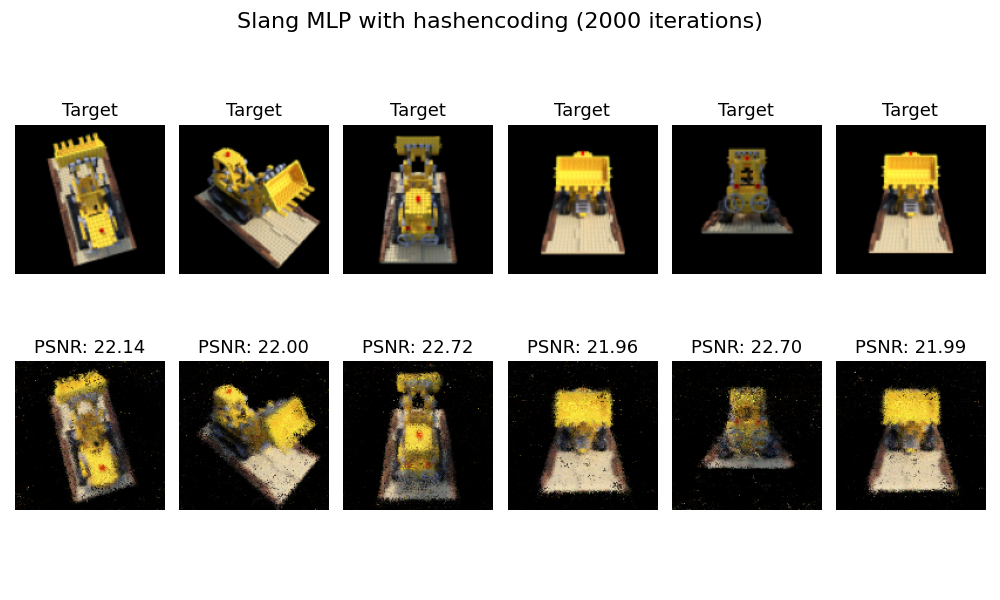
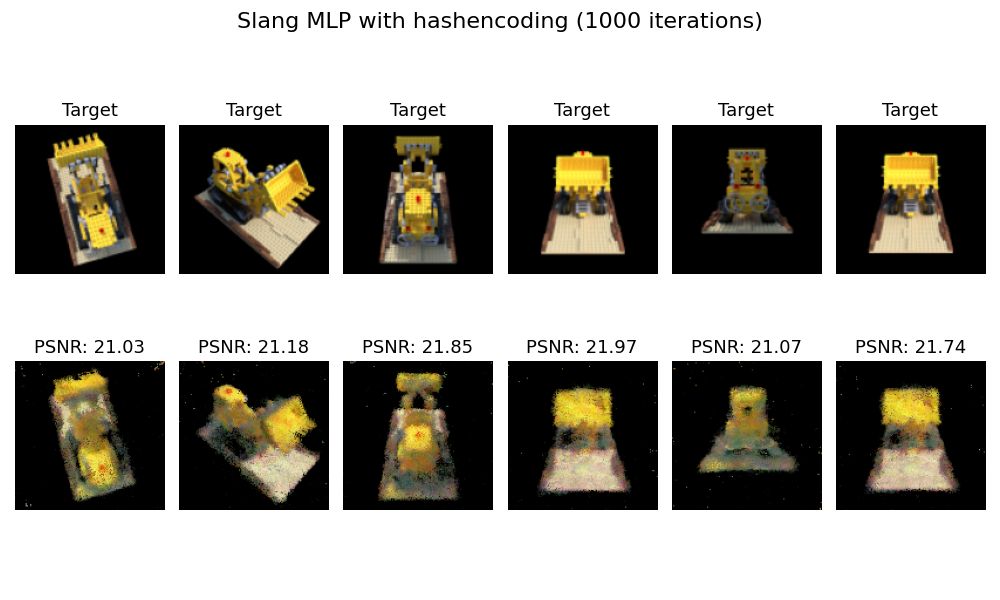
multi-res

diff --git a/trainers/slanghash_trainer.py b/trainers/slanghash_trainer.py
@@ -3,7 +3,7 @@ import os
 import matplotlib.pyplot as plt
 import time
 from utils.data_loader import DataLoader
-from utils.save_results import save_images
+from utils.save_results import save_images, save_video
 import numpy as np
 from utils.feature_field import FeatureField, normalize_coordinates
 torch.cuda.empty_cache()
@@ -22,7 +22,7 @@ class SlangHashTrainer:
         self.bounding_box = self.dataset.get_bbx()
         self.model = RenderImage()
         self.loss_fn = torch.nn.MSELoss()
-        self.feature_field = FeatureField(features_per_level = 32,res=self.height).cuda()
+        self.feature_field = FeatureField(features_per_level = 2,res=self.height).cuda()
         self.params = self.init_params()
         
     def init_params(self):
@@ -44,7 +44,8 @@ class SlangHashTrainer:
             img_i = np.random.randint(100)
             x, dists, target_image, viewdirs = self.dataset.get_data(img_i)
             x = normalize_coordinates(x, self.bounding_box)
-            embedded_x = self.feature_field.encode(x)
+            #embedded_x = self.feature_field.encode(x)
+            embedded_x = self.feature_field(x)
             
             encoded_viewdirs = viewdirs  
             y_pred = self.model.apply(
@@ -70,7 +71,8 @@ class SlangHashTrainer:
         for img_i in test_images:
             x, dists, target_image, viewdirs = self.dataset.get_data(img_i)
             x = normalize_coordinates(x, self.bounding_box)
-            embedded_x = self.feature_field.encode(x)   
+            #embedded_x = self.feature_field.encode(x)   
+            embedded_x = self.feature_field(x)
 
             encoded_viewdirs = viewdirs  
             
@@ -91,3 +93,18 @@ class SlangHashTrainer:
         if(saveimg):
             save_images(target_images, intermediate_images,'slanghash.png', "Slang MLP with hashencoding" , self.iters, psnrs)
         
+    def render_path(self, saveimg):
+        intermediate_images = []
+        for img_i in range(100):
+            x, dists, viewdirs = self.dataset.get_render_data(img_i)
+            x = normalize_coordinates(x, self.bounding_box)
+            #embedded_x = self.feature_field.encode(x)   
+            embedded_x = self.feature_field(x)
+            encoded_viewdirs = viewdirs  
+            y_pred = self.model.apply(
+                self.width, self.height,
+                embedded_x, encoded_viewdirs, dists, self.embeded,
+                *self.params)
+            intermediate_images.append(y_pred.detach().cpu().numpy())
+            print(f"Iteration {img_i}") 
+        save_video(intermediate_images,'slanghash')

diff --git a/trainers/torchhash_trainer.py b/trainers/torchhash_trainer.py
@@ -19,7 +19,7 @@ class TorchHashTrainer:
         self.model = MLP(self.C, self.C, self.C).to(self.device)
         self.dataset = DataLoader(H= self.height, W = self.width, N_samples = self.N_samples)
         self.bounding_box = self.dataset.get_bbx()
-        self.feature_field = FeatureField(features_per_level = 32, res=self.height).cuda()
+        self.feature_field = FeatureField(features_per_level = 2, res=self.height).cuda()
         self.loss_fn = torch.nn.MSELoss()
         
     def train(self, iters, lr = 5e-3): #5e-3
@@ -33,7 +33,8 @@ class TorchHashTrainer:
             x, dists, target_image, viewdirs = self.dataset.get_data(img_i)
             #hashencoding
             x = normalize_coordinates(x, self.bounding_box)
-            embedded_x = self.feature_field.encode(x)
+            embedded_x = self.feature_field.forward(x)
+            #print(embedded_x.shape)
             
             viewdirs = (pos_embed(viewdirs)[...,:16]).unsqueeze(2).expand(-1, -1, self.N_samples, -1)
             #MLP and volume rendering
@@ -59,7 +60,8 @@ class TorchHashTrainer:
         for img_i in test_images:
             x, dists, target_image, viewdirs = self.dataset.get_data(img_i)
             x = normalize_coordinates(x, self.bounding_box)
-            embedded_x = self.feature_field.encode(x)
+            #embedded_x = self.feature_field.encode(x)
+            embedded_x = self.feature_field.forward(x)
             viewdirs = (pos_embed(viewdirs)[...,:16]).unsqueeze(2).expand(-1, -1, self.N_samples, -1)
             y_pred = self.model(embedded_x, viewdirs)
             y_pred = volume_rendering(y_pred, dists)
@@ -77,10 +79,11 @@ class TorchHashTrainer:
             
     def render_path(self, saveimg):
         intermediate_images = []
-        for img_i in range(40):
+        for img_i in range(100):
             x, dists, viewdirs = self.dataset.get_render_data(img_i)
             x = normalize_coordinates(x, self.bounding_box)
-            embedded_x = self.feature_field.encode(x)
+            #embedded_x = self.feature_field.encode(x)
+            embedded_x = self.feature_field.forward(x)
             viewdirs = (pos_embed(viewdirs)[...,:16]).unsqueeze(2).expand(-1, -1, self.N_samples, -1)
             y_pred = self.model(embedded_x, viewdirs)
             y_pred = volume_rendering(y_pred, dists)

diff --git a/utils/data_loader.py b/utils/data_loader.py
@@ -19,7 +19,7 @@ class DataLoader():
         focal = torch.tensor(data['focal'], dtype=torch.float32, device=self.device).clone().detach()
         self.preprocess_data(images, poses, focal)
         self.bbx = self.get_bbx()
-        render_poses = torch.stack([self.pose_spherical(angle, -30.0, 4.0) for angle in np.linspace(-180,180,40+1)[:-1]], 0).to(self.device)  #torch.from_numpy(self.spherify_poses(poses.cpu().numpy())).to(self.device)
+        render_poses = torch.stack([self.pose_spherical(angle, -30.0, 4.0) for angle in np.linspace(-180,180,100+1)[:-1]], 0).to(self.device)
         self.preprocess_render_data(render_poses, focal)
         
     def preprocess_data(self, images, poses, focal):
@@ -74,10 +74,10 @@ class DataLoader():
         return pts, dists, target_image, viewdirs
 
     def preprocess_render_data(self, render_poses, focal):
-        self.render_distances = torch.zeros((40, self.H, self.W, self.N_samples)).to(self.device)
-        self.render_samplePoints = torch.zeros((40, self.H, self.W, self.N_samples, 3)).to(self.device)
-        self.render_viewrDirections = torch.zeros((40, self.H, self.W, 3)).to(self.device)
-        for i in range(40):
+        self.render_distances = torch.zeros((100, self.H, self.W, self.N_samples)).to(self.device)
+        self.render_samplePoints = torch.zeros((100, self.H, self.W, self.N_samples, 3)).to(self.device)
+        self.render_viewrDirections = torch.zeros((100, self.H, self.W, 3)).to(self.device)
+        for i in range(100):
             #ray direction
             origins, directions = self.get_rays(self.H, self.W, focal, render_poses[i])
             #dists
@@ -103,11 +103,13 @@ class DataLoader():
         [0,1,0,0],
         [0,0,1,t],
         [0,0,0,1]]).float()
+        
         rot_phi = lambda phi : torch.Tensor([
             [1,0,0,0],
             [0,np.cos(phi),-np.sin(phi),0],
             [0,np.sin(phi), np.cos(phi),0],
             [0,0,0,1]]).float()
+        
         rot_theta = lambda th : torch.Tensor([
             [np.cos(th),0,-np.sin(th),0],
             [0,1,0,0],

diff --git a/utils/feature_field.py b/utils/feature_field.py
@@ -19,21 +19,31 @@ def normalize_coordinates(x, bounding_box):
     return x
 
 class FeatureField(nn.Module): #hashmap_scale=.0001, res=1024
-    def __init__(self, hashmap_scale=1, log2_hashmap_size=19, features_per_level=2, res=128):
+    def __init__(self, hashmap_scale=1, log2_hashmap_size=19, n_levels = 16, features_per_level=2, base_resolution=16, res=128):
         super().__init__()
         self.hashtable_size = 2**log2_hashmap_size
         self.features_per_level = features_per_level
-        self.res = res
+        self.n_levels = n_levels
+        self.max_resolution = torch.tensor(res)
+        self.base_resolution = torch.tensor(base_resolution)
+        self.growth_factor = torch.exp((torch.log(self.max_resolution)-torch.log(self.base_resolution))/(n_levels-1))
         # Init the hash table (also i think that it should specify device automatically?????)
         self.hashtable = torch.rand(size = (self.hashtable_size * 1, features_per_level), device='cuda:0') * 2 - 1 # table_size * levels * features_per_level
         self.hashtable *= hashmap_scale
         self.hashtable = nn.Parameter(self.hashtable)
 
+    def forward(self, x):
+        x_embedded_all = []
+        for i in range(self.n_levels):
+            resolution = torch.floor(self.base_resolution * self.growth_factor**i)
+            x_embedded = self.encode(x, resolution)
+            x_embedded_all.append(x_embedded)
+        return torch.cat(x_embedded_all, dim=-1)
 
     #FOR NOW im assuming x.shape = (3)
-    def encode(self, x):
+    def encode(self, x, res):
         x_reshaped = x.reshape(-1, 3)
-        x_scaled = x_reshaped * self.res
+        x_scaled = x_reshaped * res
 
         x_floor = torch.floor(x_scaled).int()
         x_ceil = torch.ceil(x_scaled).int()

diff --git a/trainers/slang_trainer.py b/trainers/slang_trainer.py
@@ -4,7 +4,7 @@ import os
 import matplotlib.pyplot as plt
 import time
 from utils.data_loader import DataLoader
-from utils.save_results import save_images
+from utils.save_results import save_images, save_video
 import numpy as np
 torch.cuda.empty_cache()
 os.chdir("models/slang_mlp")
@@ -80,3 +80,15 @@ class SlangTrainer:
         print('avg rendering time:', (end - start)/len(test_images))
         if(saveimg):
             save_images(target_images, intermediate_images,'slang.png', "Slang MLP" , self.iters, psnrs)
+            
+    def render_path(self, saveimg):
+        intermediate_images = []
+        for img_i in range(100):
+            x, dists, viewdirs = self.dataset.get_render_data(img_i)
+            y_pred = self.model.apply(
+                self.width, self.height,
+                x, viewdirs, dists, self.embeded,
+                *self.params)
+            intermediate_images.append(y_pred.detach().cpu().numpy())
+            print(f"Iteration {img_i}") 
+        save_video(intermediate_images,'slang')

diff --git a/utils/save_results.py b/utils/save_results.py
@@ -22,7 +22,7 @@ def save_images(target_images, intermediate_images, result_name, model_name, ite
 
 def save_video(intermediate_images, result_name, target_size=(512, 512)):
     def to8b(x):
-        return (255 * np.clip(x, 0, 1)).astype(np.uint8)
+        return (255 * np.clip(x, 0, 3)).astype(np.uint8)
     resized_images = [resize(image, target_size, anti_aliasing=True) for image in intermediate_images]
     testsavedir = os.path.join('results', 'videos')
     os.makedirs(testsavedir, exist_ok=True)

diff --git a/trainers/torch_trainer.py b/trainers/torch_trainer.py
@@ -65,7 +65,7 @@ class TorchTrainer:
             
     def render_path(self, saveimg):
         intermediate_images = []
-        for img_i in range(40):
+        for img_i in range(100):
             x, dists, viewdirs = self.dataset.get_render_data(img_i)
             x = pos_embed(x)[...,:-1]
             viewdirs = (pos_embed(viewdirs)[...,:16]).unsqueeze(2).expand(-1, -1, self.N_samples, -1)

diff --git a/run.py b/run.py
@@ -19,7 +19,7 @@ def main(trainer_type):
         model = TorchHashTrainer()
     else:
         raise ValueError("Invalid trainer type. Please provide 'slang' or 'torch'.")
-    model.train(iters=2000)
+    model.train(iters=1000, lr = 5e-3)
     model.render(saveimg=True)
     model.render_path(saveimg=True)
 
